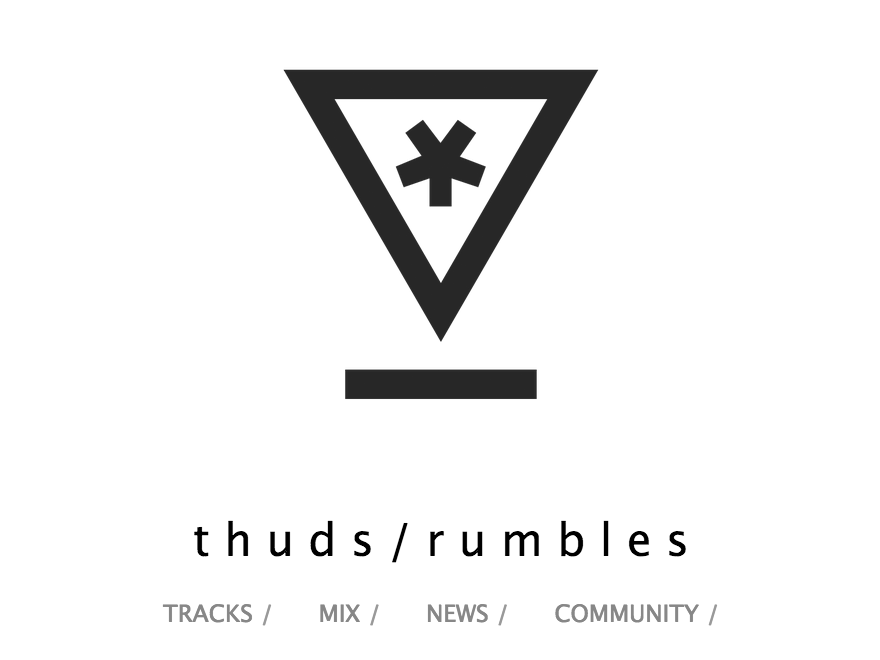
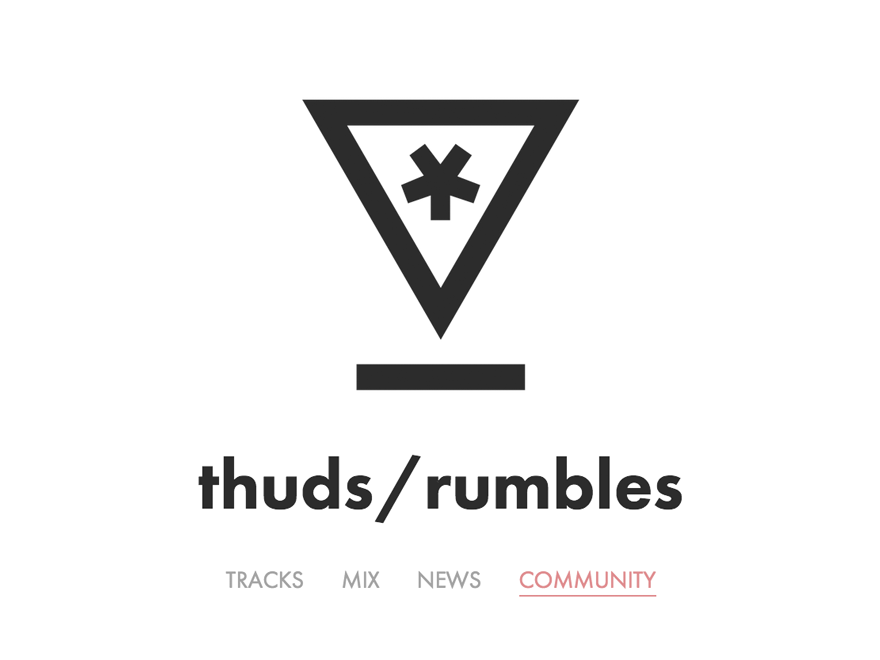
I think this is ready to release.

diff --git a/style.css b/style.css
@@ -101,7 +101,6 @@ body {
 .menu li a:hover,
 .post .date a:hover,
 .post .post-footer a:hover,
-#site-title a:hover,
 .post .date a:hover {
 	color: #f17f81;
 	border-bottom: 1px solid; 
@@ -122,7 +121,6 @@ body {
 #header { margin: 0 0 -1em 0; padding: 4em 0 0 0; position: relative; text-align: center; }
 #header .description { font-size: 13px; }
 #header a { text-decoration: none; }
-#header a:hover, #header a:active, #header a:focus { color: #272727; }
 
 #header .description {
 	margin: 1.5em 0 0 0
@@ -146,7 +144,7 @@ body {
 			transition: color 0.3s;
 }
 
-#site-title:hover a {
+#site-title a:hover {
 	color: #f17f81;
 }
 
@@ -172,10 +170,9 @@ body {
 	font-size: 15px;
 	margin: 15px 0 30px;
 	text-transform: uppercase;
-	font-family: "futura-pt" "Futura", "Trebuchet MS", "Arial", sans-serif;
+	font-family: "futura-pt", "Futura", "Trebuchet MS", "Arial", sans-serif;
 }
 
-.post .date a, .post .date a:link, .post .date a:visited { color: #999; text-decoration: none; }
 .post .post-footer {
 	text-align: center;
 	font-family: "futura-pt", "Futura", "Trebuchet MS", "Arial", sans-serif;
@@ -194,9 +191,12 @@ body {
 
 .post h2 a:hover, .post h2 a:active, .post h2 a:focus { color: #f17f81; }
 .post h2 { font-size: 32px; line-height: 120%; font-weight: bolder; }
-.post h3 { color: #ccc; margin: 0 0 1em 0; font-family: Helvetica, Arial, sans-serif; font-size: 18px; font-weight: normal; line-height: 120%; }
+.post h3 { color: #ccc; margin: 0 0 1em 0; font-family: Helvetica Neue, Helvetica, Arial, sans-serif; font-size: 18px; font-weight: normal; line-height: 120%; }
 .post h4 { color: #ccc; font-family: Helvetica, Arial, sans-serif; font-size: 13px; font-weight: normal; line-height: 120%; margin: 2em 0 1em 0; }
-.post h5 { color: #ccc;  font-family: Helvetica, Arial, sans-serif; font-size: 13px; font-weight: normal; line-height: 120%;  margin: 2em 0 1em 0; }
+.post h5 { color: #ccc;  font-family: Helvetica Neue, Helvetica, Arial, sans-serif; font-size: 13px; font-weight: normal; line-height: 120%;  margin: 2em 0 1em 0; }
+.post p {
+	font-family: Helvetica Neue, Helvetica, Arial, sans-serif;
+}
 .post blockquote cite { font-style: normal; }
 .post .number-of-comments a { text-decoration: underline; font-size: 13px; }
 #comments { font-size: 13px; }
@@ -271,7 +271,7 @@ label { font-size: 1em; margin: 0 .5em; }
 #search-form label { position: absolute; top: -99999px; }
 p.input-submit { text-align: right }
 #commentform input { width: 43% }
-#commentform textarea { font-size: 1em; font-family: Helvetica, Arial, sans-serif; width: 560px; }
+#commentform textarea { font-size: 1em; font-family: Helvetica Neue, Helvetica, Arial, sans-serif; width: 560px; }
 #commentform #submit-comment { width: auto; font-size: 14px; border: 0; padding: 5px; background: #3A525C; color: #fff; }
 #search-form #submit { padding: 1px 13px; margin: 0 0 0 5px; }
 #search h2, .emptysearch, .error { color: #ccc; }

diff --git a/archive.php b/archive.php
@@ -27,22 +27,25 @@
 					<?php echo get_post_masthead( get_the_ID() ); ?>
 					<div class="post-content">
 						<h2 class="mobile-header"><a href="<?php the_permalink() ?>" rel="bookmark" title="<?php the_title(); ?>"><?php the_title(); ?></a></h2>
-						<span class="date mobile-header">
-							by <?php the_author_posts_link(); ?>
-							on <a href="<?php the_permalink() ?>"><?php the_time(__('m/j/Y','min')) ?></a>
-							in <?php the_category(', ') ?>
-						</span>
-						<div class="clearfix"></div>
-						<div class="post-footer">
-							<div class="entry">
-								<?php the_content(__('Continue Reading','min').' &raquo;'); ?>
+						
+						<?php if ( !is_page() ) { ?>
+							<div class="date mobile-header">
+								posted by <?php the_author_posts_link(); ?>
+								<a href="<?php the_permalink() ?>"><?php echo human_time_diff( get_the_time('U'), current_time('timestamp') ) . ' ago'; ?></a>
+								in <?php the_category(', ') ?> <br> 
 							</div>
-							<span class="number-of-comments">
-								<a href="<?php the_permalink() ?>#comments" title="title">
-									<?php comments_number(__('No Comments','min'), __('1 Comment','min'), __('% Comments','min'));?>
-								</a>
-							</span>
+						<?php } ?>
+
+						<div class="entry">
+							<?php the_content( __('Continue reading','min') . ' &raquo;' ); ?>
 						</div>
+
+						<div class="clearfix"></div>
+
+						<div class="post-footer">
+							<?php the_tags('', '  /  ', '') ?>
+						</div><!-- /.post-footer -->
+
 					</div><!-- /.post-content -->
 				</div><!-- /.post -->
 			<?php endwhile; ?>

diff --git a/search.php b/search.php
@@ -10,11 +10,11 @@
 					<?php echo get_post_masthead( get_the_ID() ); ?>
 					<div class="post-content">
 						<h2 class="mobile-header"><a href="<?php the_permalink() ?>" rel="bookmark" title="<?php the_title(); ?>"><?php the_title(); ?></a></h2>
-						<span class="date mobile-header">
-							by <?php the_author_posts_link(); ?>
-							on <a href="<?php the_permalink() ?>"><?php the_time(__('m/j/Y','min')) ?></a>
-							in <?php the_category(', ') ?>
-						</span>
+						<div class="date mobile-header">
+							posted by <?php the_author_posts_link(); ?>
+							<a href="<?php the_permalink() ?>"><?php echo human_time_diff( get_the_time('U'), current_time('timestamp') ) . ' ago'; ?></a>
+							in <?php the_category(', ') ?> <br> 
+						</div>
 						<div class="clearfix"></div>
 						<div class="post-footer">
 							<div class="entry">

diff --git a/single.php b/single.php
@@ -10,11 +10,11 @@
 					<h2 class="mobile-header"><?php the_title(); ?></h2>
 
 					<?php if ( !is_page() ) { ?>
-						<span class="date mobile-header">
-						  by <?php the_author_posts_link(); ?>
-						  on <a href="<?php the_permalink() ?>"><?php the_time(__('m/j/Y','min')) ?></a>
-						  in <?php the_category(', ') ?>
-						</span>
+						<div class="date mobile-header">
+							by <?php the_author_posts_link(); ?>
+							on <a href="<?php the_permalink() ?>"><?php the_time(__('m/j/Y','min')) ?></a>
+							in <?php the_category(', ') ?>
+						</div>
 					<?php } ?>
 					<div class="entry">
 						<?php the_content(__('Read the rest of this post','min').' &raquo;'); ?>
